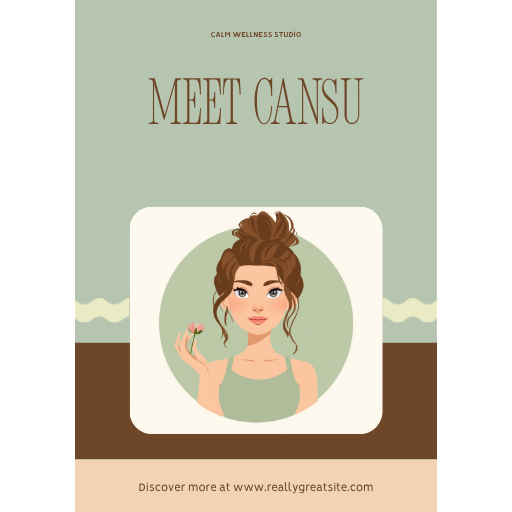
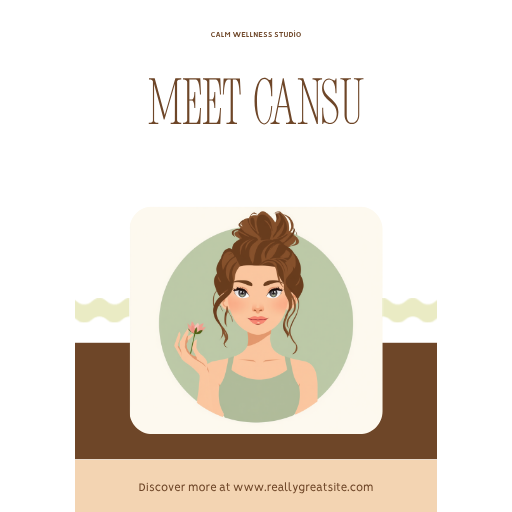
Transparent character PNGs + remove double-frame around portraits
- Re-exported all 14 Canva characters with transparent_background=true
  (no more white/cream rectangular padding around the natural circular character)
- Removed outer circular frame from .character-portrait:
  * border-radius: 0, border: none, overflow: visible
  * Replaced with filter drop-shadow for depth
  * Increased size (240-420px brief, 280-480px reaction)
  * Speaking state: gold drop-shadow glow + animated aura ring
- object-fit: cover → contain everywhere (preserve full character, no crop)
- All small bubble/dialog avatars now also show full character without cropping
- Character images now look like proper game character art floating on the scene

diff --git a/index.html b/index.html
@@ -706,41 +706,47 @@
     filter: drop-shadow(0 16px 24px rgba(0,0,0,0.5));
     transform-origin: 50% 100%;
   }
-  /* Yeni: gerçek SVG karakter portresi (DiceBear) */
+  /* Karakter portresi — Canva PNG zaten yuvarlak arka plana sahip
+     dış çerçeve yok, sadece drop-shadow ile derinlik */
   .character-portrait {
     position: relative;
-    width: clamp(180px, 30vw, 320px);
-    height: clamp(180px, 30vw, 320px);
-    border-radius: 50%;
-    overflow: hidden;
-    background: radial-gradient(circle, rgba(255,255,255,0.1), rgba(139,92,246,0.05));
-    border: 4px solid rgba(255,255,255,0.15);
-    box-shadow: 0 24px 60px rgba(0,0,0,0.6), 0 0 60px rgba(139, 92, 246, 0.25);
+    width: clamp(240px, 42vw, 420px);
+    height: clamp(240px, 42vw, 420px);
+    background: transparent;
+    border: none;
+    border-radius: 0;
+    overflow: visible;
+    filter: drop-shadow(0 20px 30px rgba(0,0,0,0.5)) drop-shadow(0 0 40px rgba(139, 92, 246, 0.25));
     animation: idleBob 3.2s ease-in-out infinite;
     transform-origin: 50% 100%;
   }
   .character-portrait img {
     width: 100%;
     height: 100%;
-    object-fit: cover;
+    object-fit: contain;
     display: block;
   }
   .character-portrait.reaction-character {
-    width: clamp(220px, 38vw, 380px);
-    height: clamp(220px, 38vw, 380px);
+    width: clamp(280px, 50vw, 480px);
+    height: clamp(280px, 50vw, 480px);
   }
   body.tts-speaking .character-portrait {
-    box-shadow: 0 24px 60px rgba(0,0,0,0.6), 0 0 80px rgba(245, 158, 11, 0.5);
-    border-color: rgba(251, 191, 36, 0.6);
+    filter: drop-shadow(0 20px 30px rgba(0,0,0,0.5)) drop-shadow(0 0 50px rgba(245, 158, 11, 0.6));
   }
-  /* Ağız overlay'ini portre üzerine yerleştir */
-  .character-portrait + .speaking-mouth,
-  .character-portrait .speaking-mouth {
+  /* Konuşma sırasında karakter etrafında altın aura */
+  body.tts-speaking .character-portrait::after {
+    content: '';
     position: absolute;
-    bottom: 26%;
-    left: 50%;
-    transform: translateX(-50%);
-    z-index: 3;
+    inset: 8%;
+    border-radius: 50%;
+    background: radial-gradient(circle, transparent 55%, rgba(251, 191, 36, 0.25) 70%, transparent 85%);
+    z-index: -1;
+    animation: glowPulse 0.6s ease-in-out infinite alternate;
+    pointer-events: none;
+  }
+  @keyframes glowPulse {
+    0% { opacity: 0.4; transform: scale(0.98); }
+    100% { opacity: 0.9; transform: scale(1.04); }
   }
   @keyframes idleBob {
     0%, 100% { transform: translateY(0) rotate(-1.5deg); }
@@ -3577,7 +3583,7 @@ function renderBriefDetail() {
         <div class="speech-area">
           <div>
             <div class="speech-name-row">
-              <div class="speech-name-avatar" style="overflow: hidden;">${portraitOf(b.id) ? `<img src="${portraitOf(b.id)}" alt="${p?.name || b.client}" style="width:100%;height:100%;object-fit:cover;display:block;" onerror="this.style.display='none';this.parentElement.innerHTML='${p?.avatar || b.icon}';">` : (p?.avatar || b.icon)}</div>
+              <div class="speech-name-avatar" style="overflow: hidden;">${portraitOf(b.id) ? `<img src="${portraitOf(b.id)}" alt="${p?.name || b.client}" style="width:100%;height:100%;object-fit:contain;display:block;" onerror="this.style.display='none';this.parentElement.innerHTML='${p?.avatar || b.icon}';">` : (p?.avatar || b.icon)}</div>
               <div class="flex-1">
                 <div class="speech-name flex items-center">
                   <span>${p?.name || b.client}</span>
@@ -4453,7 +4459,7 @@ function renderCustomerReaction() {
       <div>
         <div class="speech-bubble-comic">
           <div class="bubble-name-row">
-            <div class="bubble-name-avatar" style="overflow: hidden;">${portraitOf(b.id) ? `<img src="${portraitOf(b.id)}" alt="${p.name}" style="width:100%;height:100%;object-fit:cover;display:block;" onerror="this.style.display='none';this.parentElement.innerHTML='${p.avatar}';">` : p.avatar}</div>
+            <div class="bubble-name-avatar" style="overflow: hidden;">${portraitOf(b.id) ? `<img src="${portraitOf(b.id)}" alt="${p.name}" style="width:100%;height:100%;object-fit:contain;display:block;" onerror="this.style.display='none';this.parentElement.innerHTML='${p.avatar}';">` : p.avatar}</div>
             <div>
               <div class="bubble-name">${p.name}</div>
               <div class="bubble-role">${p.role} · Müşteri</div>
